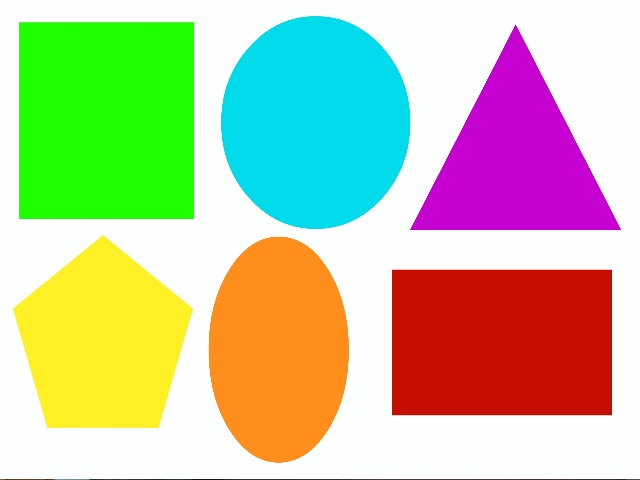
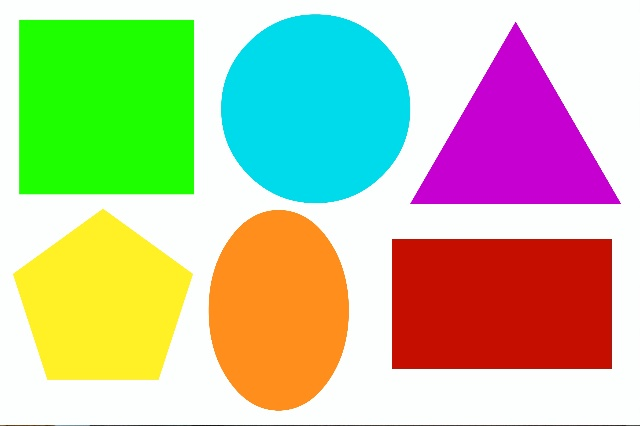
Resize with same aspect ratio.

diff --git a/nodes/GUI_node.py b/nodes/GUI_node.py
@@ -9,48 +9,50 @@ def main():
 
     # Open image, using file images for now
     rospack = rospkg.RosPack()
-    path = rospack.get_path('mill_controller') + '/images/resize.jpg'
+    path = rospack.get_path('mill_controller') + '/images/shapes.jpg'
     img = cv2.imread(path,cv2.IMREAD_COLOR)
 
     # Show image
     cv2.imshow('window',img)
     cv2.waitKey(0)
 
-    # Draw
-    img_copy = img.copy()
-    center = (200,150)
-    radius = 10
-    color = (0,0,255)
-    cv2.circle(img_copy,center, radius,color)
+    # # Draw
+    # img_copy = img.copy()
+    # center = (200,150)
+    # radius = 10
+    # color = (0,0,255)
+    # cv2.circle(img_copy,center, radius,color)
 
-    start = (5, 5)
-    end = (100, 200)
-    cv2.line(img_copy,start,end,color)
+    # start = (5, 5)
+    # end = (100, 200)
+    # cv2.line(img_copy,start,end,color)
 
-    # Show image
-    cv2.imshow('window',img_copy)
+    # # Show image
+    # cv2.imshow('window',img_copy)
+    # cv2.waitKey(0)
+
+
+
+
+
+
+
+
+
+
+
+
+
+
+    # Image resizing code. My reference was much too large
+    img = cv2.resize(img, (640,int(640/1.5)))  # Resize to given (width,height)
+    # img = cv2.resize(img, (0,0), fx=.3, fy=.3)  # Halve image size
+
+    cv2.imshow('window',img)
     cv2.waitKey(0)
 
-
-
-
-
-
-
-
-
-
-
-
-
-
-#     # Image resizing code. My reference was much too large
-#     img = cv2.resize(img, (640,480))
-
-#     cv2.imshow('window',img)
-#     cv2.waitKey(0)
-
-#     cv2.imwrite('resize.jpg',img)
+    path = rospack.get_path('mill_controller') + '/images/resize.jpg'
+    cv2.imwrite(path,img)
 
 
     # Close image windows for shutdown
